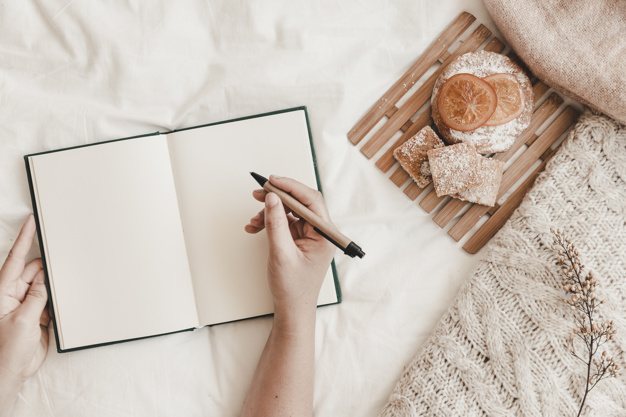
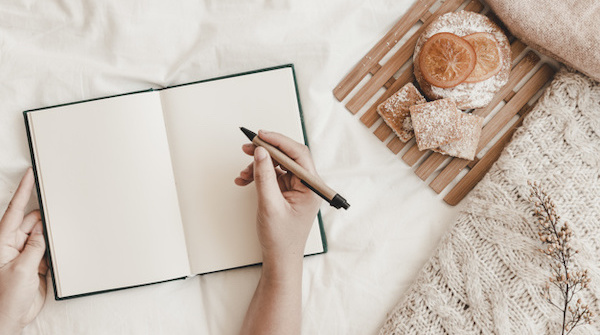
Fix to reduct imaze size

diff --git a/components/Banner.vue b/components/Banner.vue
@@ -14,11 +14,25 @@
 @import '~/assets/variables.scss';
 
 .index .header {
-  background-image: url('../static/bg_img.jpg');
   background-size: cover;
   background-repeat: no-repeat;
-  background-position-y: 56px;
   height: 100vh;
+}
+
+@media screen and (max-width: 480px) {
+  .index .header {
+    background-image: url('../static/bg_img_480.jpg');
+  }
+}
+@media screen and (min-width: 768px) and (max-width: 1024px) {
+  .index .header {
+    background-image: url('../static/bg_img_768.jpg');
+  }
+}
+@media screen and (min-width: 1024px) {
+  .index .header {
+    background-image: url('../static/bg_img_1024.jpg');
+  }
 }
 
 .index .bg_opacity {

diff --git a/components/Blog.vue b/components/Blog.vue
@@ -64,10 +64,7 @@ export default {
   },
   methods: {
     getImgUrl() {
-      return (
-        'https://source.unsplash.com/featured/?nature,water,town,city' +
-        Math.random(1000)
-      )
+      return '/post_img/' + (Math.floor(Math.random() * 19) + 1) + '.jpeg'
     }
   }
 }
